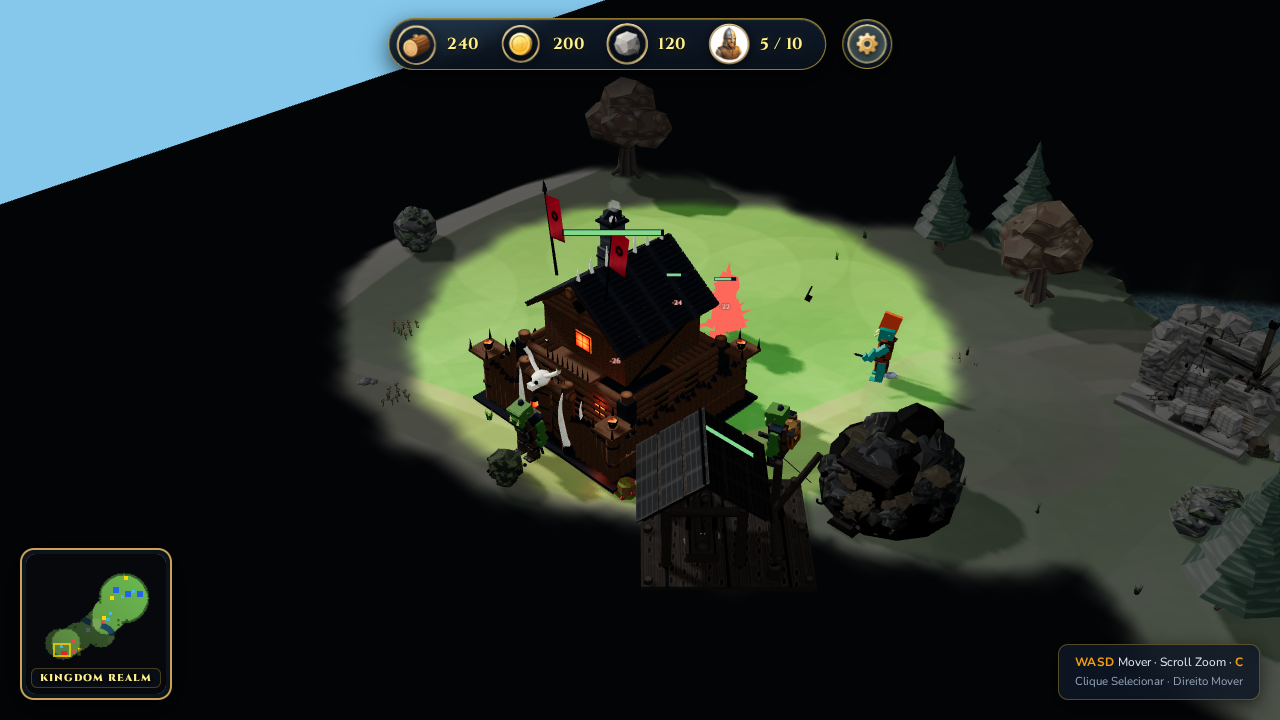
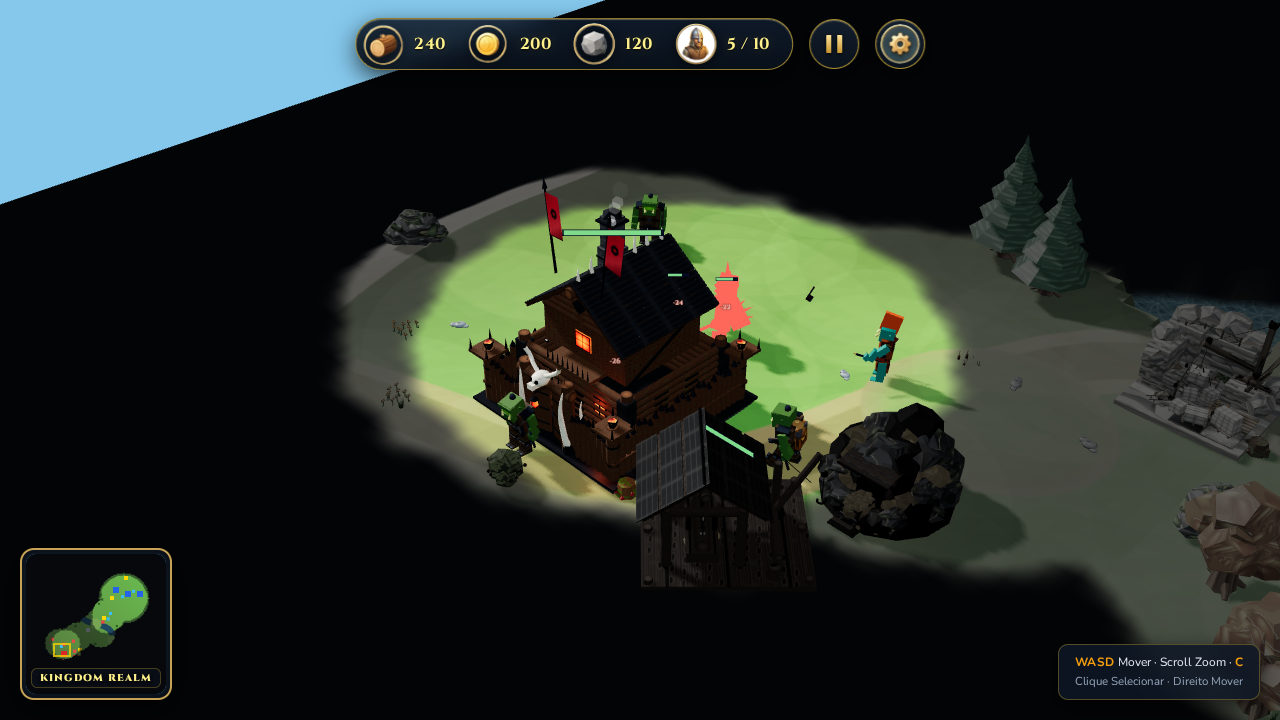
F1-05: névoa de guerra por shader com memória e fantasmas
Conclui o trabalho da sessão anterior (dd57a03, ~70%): instala o patch global
do shader explicitamente em main.js (antes do preload), exclui os anéis de
seleção da névoa (materiais compartilhados de Unit/Building, marcados a
partir de uma instância viva), corrige FogOfWar.dispose() para devolver o
uniform fowMap à textura neutra (2ª partida não herda a textura descartada
da 1ª) e propaga visão a unidades/construções aliadas (F2-01) na chamada
única de GameManager.update. Remove o fallback morto de shroudMesh em
GameManager.dispose().

diff --git a/src/core/FogOfWar.js b/src/core/FogOfWar.js
@@ -1,7 +1,7 @@
 import * as THREE from 'three';
 import { VISION_RADII, DEFAULT_UNIT, DEFAULT_BUILDING } from '../data/index.js';
 import { FogGrid, BuildingMemory } from './FogGrid.js';
-import { fogUniforms, excludeFromFog, markFogGround } from '../render/fogOfWarShader.js';
+import { fogUniforms, excludeFromFog, markFogGround, resetFogTexture } from '../render/fogOfWarShader.js';
 import { QualitySettings } from './QualitySettings.js';
 import { ModelFactory } from '../entities/ModelFactory.js';
 
@@ -203,7 +203,20 @@ export class FogOfWar {
       this.updateTimer = 0;
       this._tickGrid(playerUnits, playerBuildings, enemyBuildings);
     }
+    this._excludeSelectionRingsFromFog(playerUnits, enemyUnits, playerBuildings, enemyBuildings);
     this.cullHiddenEnemies(enemyUnits, enemyBuildings);
+  }
+
+  /**
+   * Anéis de seleção (materiais compartilhados de `Unit`/`Building`, não exportados) não devem
+   * escurecer com a névoa. Como não podemos editar `Unit.js`/`Building.js`, marcamos os materiais
+   * a partir de uma instância viva; `excludeFromFog` é idempotente e barato (`userData.noFog`).
+   */
+  _excludeSelectionRingsFromFog(playerUnits, enemyUnits, playerBuildings, enemyBuildings) {
+    if (playerUnits[0]?.selectionRing) excludeFromFog(playerUnits[0].selectionRing);
+    if (enemyUnits[0]?.selectionRing) excludeFromFog(enemyUnits[0].selectionRing);
+    if (playerBuildings[0]?.selectionRing) excludeFromFog(playerBuildings[0].selectionRing);
+    if (enemyBuildings[0]?.selectionRing) excludeFromFog(enemyBuildings[0].selectionRing);
   }
 
   _tickGrid(playerUnits, playerBuildings, enemyBuildings) {
@@ -294,6 +307,10 @@ export class FogOfWar {
     for (const b of this.buildingMemory.clear()) this._removeGhost(b);
     if (this.ghostGroup.parent) this.ghostGroup.parent.remove(this.ghostGroup);
     if (this.fogTexture) this.fogTexture.dispose();
+    this.fogTexture = null;
+    // O uniform é compartilhado por todos os materiais com névoa (patch global): sem isto, a
+    // próxima partida (2ª MatchSession) herdaria a textura já descartada desta.
+    resetFogTexture();
     fogUniforms.fowParams.value.z = 0;
   }
 }

diff --git a/src/core/GameManager.js b/src/core/GameManager.js
@@ -1118,8 +1118,8 @@ export class GameManager {
       const localId = this._localPlayerId;
       this.fogOfWar.update(
         dt,
-        this.units,
-        this.buildings.filter(b => b.ownerId === localId),
+        this.allUnits.filter(u => u.ownerId === localId || this.isAlly(localId, u.ownerId)),
+        this.buildings.filter(b => b.ownerId === localId || this.isAlly(localId, b.ownerId)),
         this.enemies,
         this.buildings.filter(b => this.isHostile(localId, b.ownerId))
       );
@@ -1302,15 +1302,8 @@ export class GameManager {
     this.arrows.forEach(a => (a.dispose ? a.dispose() : this.scene.remove(a.mesh)));
     this.treeManager?.dispose();
 
-    const fog = this.fogOfWar;
-    if (fog) {
-      if (typeof fog.dispose === 'function') {
-        fog.dispose();
-      } else {
-        if (fog.shroudMesh) this.scene.remove(fog.shroudMesh);
-        fog.fogTexture?.dispose();
-      }
-    }
+    // Névoa por shader (F1-05): sem plano sobreposto (shroudMesh) para remover.
+    this.fogOfWar?.dispose();
 
     this.allUnits = [];
     this._unitsByOwner.clear();

diff --git a/tests/unit/fogOfWar.test.js b/tests/unit/fogOfWar.test.js
@@ -1,0 +1,25 @@
+import { describe, it, expect } from 'vitest';
+import * as THREE from 'three';
+import { FogOfWar } from '../../src/core/FogOfWar.js';
+import { fogUniforms } from '../../src/render/fogOfWarShader.js';
+
+describe('FogOfWar — dispose', () => {
+  it('dispose() seguido de nova instância não compartilha estado (uniform de textura trocado)', () => {
+    const sceneA = new THREE.Scene();
+    const fowA = new FogOfWar(sceneA, 160, 160);
+    const texA = fogUniforms.fowMap.value;
+    expect(texA).not.toBe(null);
+
+    fowA.dispose();
+    // O uniform compartilhado não pode continuar apontando para a textura já descartada.
+    expect(fogUniforms.fowMap.value).not.toBe(texA);
+    expect(fogUniforms.fowParams.value.z).toBe(0);
+
+    const sceneB = new THREE.Scene();
+    const fowB = new FogOfWar(sceneB, 160, 160);
+    // A 2ª partida ganha sua própria textura, distinta da 1ª (já descartada).
+    expect(fogUniforms.fowMap.value).not.toBe(texA);
+    expect(fogUniforms.fowMap.value).toBe(fowB.fogTexture);
+    fowB.dispose();
+  });
+});

diff --git a/src/main.js b/src/main.js
@@ -1,4 +1,5 @@
 import * as THREE from 'three';
+import { installFogOfWarShader } from './render/fogOfWarShader.js';
 import { SceneManager } from './core/SceneManager.js';
 import { SoundManager } from './core/SoundManager.js';
 import { AssetPreloader } from './core/AssetPreloader.js';
@@ -10,6 +11,10 @@ import { shouldShowMainMenu, showMainMenu } from './ui/screens/MainMenu.js';
 import { PauseMenu } from './ui/screens/PauseMenu.js';
 
 const S = GameState;
+
+// Névoa de guerra por shader (F1-05): instala o patch global em `THREE.Material.prototype` antes de
+// qualquer material ser compilado (AssetPreloader / warmLiveScene). Idempotente.
+installFogOfWarShader();
 
 const nextFrame = () => new Promise((resolve) => requestAnimationFrame(() => resolve()));
 

diff --git a/src/render/fogOfWarShader.js b/src/render/fogOfWarShader.js
@@ -50,6 +50,15 @@ export const fogUniforms = {
   fowShroud: { value: new THREE.Vector3(0.012, 0.016, 0.024) }
 };
 
+/**
+ * Devolve `fowMap` à textura neutra 1×1 (não escurece nada). Chamado por `FogOfWar.dispose()`
+ * para que a textura da partida anterior (já descartada) não continue referenciada pelo uniform
+ * compartilhado — a próxima `FogOfWar` (2ª partida) começa sem herdar estado da anterior.
+ */
+export function resetFogTexture() {
+  fogUniforms.fowMap.value = _neutral;
+}
+
 const CACHE_SUFFIX = '|wp-fow1';
 const CACHE_SUFFIX_GROUND = '|wp-fow1g';
 const CACHE_SUFFIX_DEPTH = '|wp-fow1d';

diff --git a/docs/02_MECANICAS.md b/docs/02_MECANICAS.md
@@ -102,7 +102,17 @@ Tick de 1s. Utilidades:
 
 ## Névoa de guerra
 
-Exploração permanente; unidades inimigas ficam visíveis em qualquer área **já explorada** (não há distinção entre "visível agora" e "memória"), o que anula boa parte da estratégia de informação.
+Névoa no estilo Warcraft II (F1-05), aplicada no próprio shader dos materiais do mundo (sem plano sobreposto — nada "atravessa" a névoa). Grade lógica 128² sobre o mapa, recalculada a 10 Hz, com 3 estados por célula:
+- **Não explorado**: preto.
+- **Memória** (já explorado, sem visão agora): terreno/água/árvores/construções escurecidos e dessaturados; unidades inimigas **não aparecem** (nem no minimapa).
+- **Visível agora**: normal.
+
+Regras por tipo de entidade:
+- **Unidades inimigas**: só desenham (mesh + barra de vida) com visão atual sobre a posição; somem ao saírem da visão. Unidades e construções aliadas/próprias são sempre visíveis.
+- **Construções inimigas**: uma vez vistas, ficam na memória (malha visível, escurecida; barra de vida oculta). Se destruídas fora da visão, um **fantasma** (clone do template, escurecido) permanece no lugar até a área ser revista — então some, revelando que a construção não existe mais.
+- **Minimapa**: mesmos 3 estados; inimigos só aparecem com visão atual; fantasmas de construção desenhados como construções.
+
+Nova partida (F2-04, sem recarregar a página) começa com a névoa zerada (`FogOfWar.dispose()` + `reset()`).
 
 ## Opções
 

diff --git a/docs/04_DIAGNOSTICO.md b/docs/04_DIAGNOSTICO.md
@@ -27,8 +27,8 @@ Causas raiz, em ordem de impacto:
 
 | # | Problema | Onde |
 |---|---|---|
-| B1 | Névoa: inimigos ficam visíveis para sempre em área já explorada (usa `isExplored`, não `activeVision`) | `FogOfWar.cullUnexploredEnemies` |
-| B2 | Névoa é um plano a y=5,2: árvores/torres atravessam a névoa, unidades sob a névoa aparecem nas bordas | `FogOfWar.createShroudMesh` |
+| B1 | ~~Névoa: inimigos ficam visíveis para sempre em área já explorada (usa `isExplored`, não `activeVision`)~~ **Corrigido na F1-05**: `cullHiddenEnemies` usa `activeVision` (visão atual), não memória | `FogOfWar.cullHiddenEnemies` |
+| B2 | ~~Névoa é um plano a y=5,2: árvores/torres atravessam a névoa, unidades sob a névoa aparecem nas bordas~~ **Corrigido na F1-05**: névoa aplicada no shader dos materiais (sem plano sobreposto), objetos escondidos por origem no vertex shader | `src/render/fogOfWarShader.js` |
 | B3 | ~~Custos da IA divergem da tabela real (ranged IA: 60 madeira/35 ouro vs real 20/40) — IA decide com base errada~~ **Corrigido na F0-06**: `AIDirector.costs` agora é derivado de `src/data/` | `AIDirector.costs` vs `UNIT_TRAIN_CONFIG` |
 | B4 | ~~Custos de construção duplicados 3× (`BUILDING_BUILD_CONFIG`, `getBuildingStats`, `InputManager.getCost`)~~ **Corrigido na F0-06**: fonte única em `src/data/buildings.js` | vários |
 | B5 | Construções ignoram armadura; upgrades de defesa não afetam construções/torres | `Building.takeDamage` |
